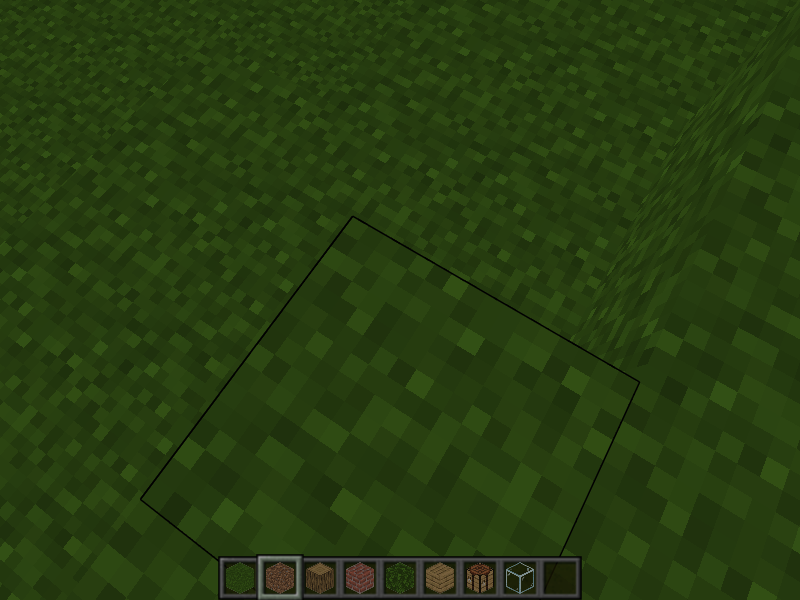
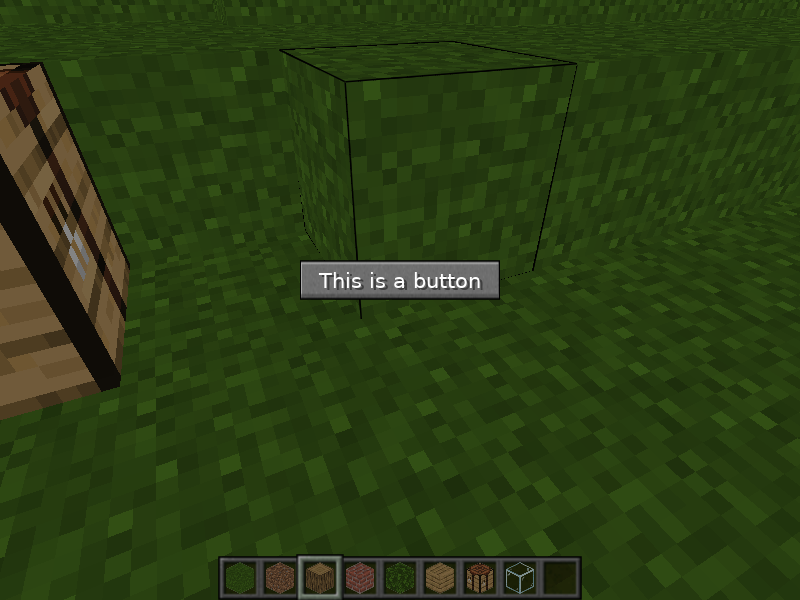
2021-05-25

diff --git a/index.html b/index.html
@@ -20,7 +20,7 @@
 					$("#index-side").addClass("border");
 				}, 100);
 				now = new Date();
-				if ((now.getFullYear() >= 2021) && (now.getMonth() >= 5) && (now.getDate() >= 25)) {
+				if ((now.getFullYear() >= 2021) && (now.getMonth() >= 4) && (now.getDate() >= 26)) {
 					$("#respect").css("display", "none");
 				}
 			});

diff --git a/source/code/simplegui.py b/source/code/simplegui.py
@@ -1,5 +1,6 @@
 from pyforge import add_mod
 from pyforge.gui import register_gui, toggle_gui
+from pyforge.gui.widget.button import Button
 from pyforge.gui.frame import Frame
 from pyforge.utils import *
 
@@ -9,6 +10,10 @@ class ExampleGUI():
     def __init__(self, game):
         self.game = game
         self.frame = Frame(self.game, True)
+        w, h = get_size()
+        self.button = Button((w - 200) / 2, h / 2, 200, 40,
+                'This is a button')
+        self.frame.add_widget(self.button)
 
 
 class SimpleGUI():

diff --git a/article/2021-05-09.md b/article/2021-05-09.md
@@ -22,6 +22,7 @@ Minecraft-in-python 总是在一个特定的目录内存储文件,
 ```python
 from pyforge import add_mod
 from pyforge.gui import register_gui, toggle_gui
+from pyforge.gui.widget.button import Button
 from pyforge.gui.frame import Frame
 from pyforge.utils import *
 
@@ -31,6 +32,9 @@ class ExampleGUI():
     def __init__(self, game):
         self.game = game
         self.frame = Frame(self.game, True)
+        w, h = get_size()
+        self.button = Button((w - 200) / 2, h / 2, 200, 40, 'This is a button')
+        self.frame.add_widget(self.button)
 
 
 class SimpleGUI():
